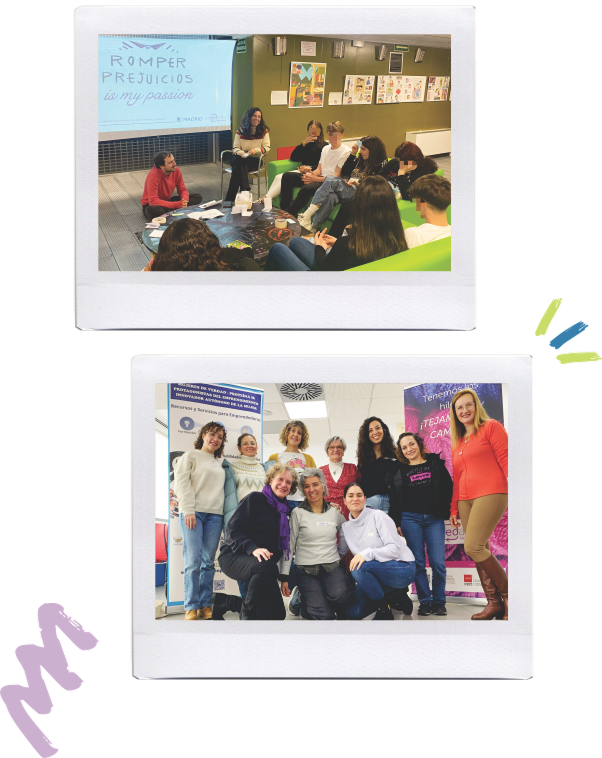
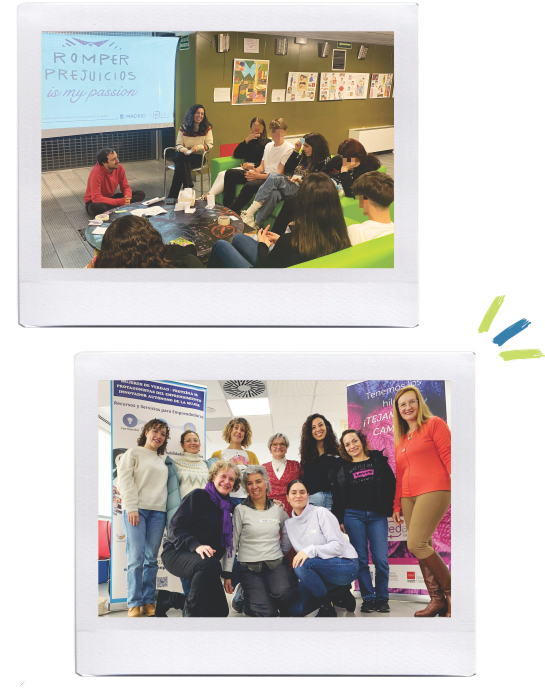
styles changes

diff --git a/client/src/app/sobreMi/page.tsx b/client/src/app/sobreMi/page.tsx
@@ -78,7 +78,7 @@ export default function AboutMe() {
         src={"/papel.webp"}
       /> */}
       <section className="flex w-full h-full flex-col items-center relative -mt-[5vh]">
-        <div className="max-lg:min-h-screen lg:h-[85svh] w-full max-lg:flex-col flex  lg:items-start items-center justify-center relative text-center gap-8 px-[5%] lg:px-[8.335%] pt-[20vh] md:pt-[15vh]">
+        <div className="min-h-[105vh] w-full max-lg:flex-col flex  lg:items-start items-center justify-center relative text-center gap-8 px-[5%] lg:px-[8.335%] pt-[20vh]">
           <Image
             src="/sobreMi/foco.png"
             alt="foco"
@@ -100,7 +100,7 @@ export default function AboutMe() {
             width={200}
             height={200}
           />
-          <div className="relative flex items-start gap-4">
+          <div className="relative flex items-center gap-4">
             <Image
               src="/sobreMi/imagenMica.png"
               alt="imagen micaela"
@@ -113,7 +113,7 @@ export default function AboutMe() {
               alt="flecha"
               width={200}
               height={200}
-              className="lg:pb-20 absolute z-20 max-lg:right-[10%] -bottom-8 max-lg:rotate-[140deg] lg:relative max-w-[15vw] sm:max-w-[10vw] md:max-w-[9vw] lg:mt-10"
+              className="pb-20 z-20 max-lg:hidden relative max-w-[9vw] self-start mt-16"
             />
           </div>
           <div className="flex flex-col items-center lg:items-start gap-4 relative md:w-3/4 lg:w-1/2 lg:mt-10">
@@ -121,7 +121,7 @@ export default function AboutMe() {
               <span>¡Hola!</span>{" "}
               <span className="self-end">Soy Micaela Gerbeno</span>
             </h1>
-            <p className="text-justify lg:text-left text-sm md:text-base xl:text-lg 3xl:text-xl leading-6  md:leading-8 xl:leading-[30px] 3xl:leading-[40px]">
+            <p className=" lg:text-left text-sm md:text-base xl:text-lg 3xl:text-xl leading-6  md:leading-8 xl:leading-[30px] 3xl:leading-[40px]">
               Soy consultora y formadora de{" "}
               <strong>Innovación Social y Sostenibilidad.</strong> <br />
               Me especializo en el{" "}
@@ -152,7 +152,7 @@ export default function AboutMe() {
         <Image
           src="/sobreMi/megafono.png"
           alt="megafono"
-          className="absolute left-0 top-0 md:-top-16 xl:top-1/3 max-w-[25%] md:max-w-[20%] lg:max-w-[15%] 2xl:max-w-fit"
+          className="absolute left-0 top-0 md:-top-16  max-w-[25%] md:max-w-[20%] lg:max-w-[15%] 2xl:max-w-fit"
           width={200}
           loading="lazy"
           height={200}
@@ -167,7 +167,7 @@ export default function AboutMe() {
                                               lg:justify-start hover:scale-[1.02] transition text-center`}
               style={{}}
             >
-              {i === 2 && (
+              {/* {i === 2 && (
                 <Image
                   src="/sobreMi/garabato3.png"
                   alt="garabato"
@@ -196,7 +196,7 @@ export default function AboutMe() {
                   width={100}
                   height={100}
                 />
-              )}
+              )} */}
               {i === 4 && (
                 <Image
                   src="/sobreMi/garabato2.png"
@@ -226,10 +226,10 @@ export default function AboutMe() {
           <h3 className="text-3xl xsm:text-4xl sm:text-5xl xl:text-6xl 3xl:text-7xl font-smileCity text-rosaOscuro">
             Trabajo en red
           </h3>
-          <p className="text-justify lg:text-left text-sm md:text-base xl:text-lg 3xl:text-xl leading-6  md:leading-8 xl:leading-[30px] 3xl:leading-[40px]">
+          <p className=" lg:text-left text-sm md:text-base xl:text-lg 3xl:text-xl leading-6  md:leading-8 xl:leading-[30px] 3xl:leading-[40px]">
             En esta búsqueda no estoy sola. El trabajo{" "}
-            <strong>colaborativo</strong> y los resyltados se potencian si
-            unimos talentos diversions hacia un propósito común.
+            <strong>colaborativo</strong> y los resultados se potencian si
+            unimos talentos diversos hacia un propósito común.
           </p>
         </div>
         <Image
@@ -240,7 +240,7 @@ export default function AboutMe() {
           width={1000}
           height={800}
         />
-        <div className="w-full flex relative max-md:flex-col items-start max-lg:px-[5%] md:max-lg:-mb-20 lg:absolute lg:left-[30%] lg:bottom-[35%] lg:max-w-[40%]">
+        <div className="w-full flex relative max-lg:flex-wrap max-md:flex-col items-start max-lg:px-[5%] lg:absolute lg:left-[30%] lg:bottom-[28%] lg:max-w-[40%]">
           <Image
             src="/sobreMi/collageFotos1.png"
             alt="collage de fotos"
@@ -249,7 +249,31 @@ export default function AboutMe() {
             width={1000}
             height={800}
           />
-          <div className="md:absolute md:max-lg:-bottom-20  flex flex-col items-start gap-2 max-md:px-[5%]">
+          <Image
+            src="/sobreMi/collageFotos2.png"
+            alt="collage de fotos"
+            className="lg:hidden md:w-1/2 pt-8"
+            loading="lazy"
+            width={1000}
+            height={800}
+          />
+          <Image
+            src="/sobreMi/collageFotos3.png"
+            alt="collage de fotos"
+            className="md:hidden md:w-2/3 ml-auto py-8"
+            loading="lazy"
+            width={1000}
+            height={800}
+          />
+          <Image
+            src="/sobreMi/collageFotos4.png"
+            alt="collage de fotos"
+            className="max-md:hidden lg:hidden mx-auto -mt-8"
+            loading="lazy"
+            width={1000}
+            height={800}
+          />
+          <div className="lg:absolute  flex flex-col items-start gap-2 ">
             <h4 className="subtitle-size font-normal font-text ">
               Formo parte de
             </h4>
@@ -262,42 +286,26 @@ export default function AboutMe() {
               height={200}
             />
           </div>
-          <Image
-            src="/sobreMi/collageFotos2.png"
-            alt="collage de fotos"
-            className="lg:hidden md:w-1/2 pt-8"
-            loading="lazy"
-            width={1000}
-            height={800}
-          />
         </div>
-        <Image
-          src="/sobreMi/collageFotos3.png"
-          alt="collage de fotos"
-          className="lg:hidden md:w-2/3 ml-auto py-8"
-          loading="lazy"
-          width={1000}
-          height={800}
-        />
       </section>
-      <section className="w-full flex flex-col items-center relative gap-6 pb-32 md:pb-40 lg:pb-10 px-[5%] lg:px-[8.335%]">
+      <section className="w-full flex flex-col items-center relative gap-6 pb-40 px-[5%] lg:px-[8.335%] lg:-mt-[10vh] max-lg:pt-8">
         <h4 className="text-3xl xsm:text-4xl sm:text-5xl xl:text-6xl 3xl:text-7xl font-smileCity text-azul">
           Testimonios
         </h4>
         <div className="flex justify-center items-center w-full">
-          <div className="flex w-fit max-w-full overflow-x-auto relative z-20 gap-4 p-4 ">
+          <div className="flex w-fit max-w-full overflow-x-auto relative z-20 gap-4 py-4 ">
             {testimonials.map((testimonial, i) => (
               <Card
                 key={i}
-                className="w-[300px] md:w-[400px] lg:w-[500px] xl:w-[600px] py-4 px-4 flex-shrink-0"
+                className="w-[90vw] md:w-[60vw] lg:w-[45vw] xl:w-[35vw] py-4 px-4 flex-shrink-0"
               >
                 <CardHeader>
-                  <h5 className="font-semibold font-title text-center">
+                  <h5 className="font-semibold font-title text-center subtitle-size">
                     {testimonial.title}
                   </h5>
                 </CardHeader>
                 <CardBody>
-                  <blockquote className="italic font-text text-justify">
+                  <blockquote className="italic font-text text-xs sm:text-sm md:text-base 2xl:text-lg">
                     {testimonial.text}
                   </blockquote>
                 </CardBody>

diff --git a/client/src/app/components/Home/Blog/Blog.tsx b/client/src/app/components/Home/Blog/Blog.tsx
@@ -1,7 +1,7 @@
 "use client";
 import Image from "next/image";
 import React, { useEffect } from "react";
-import { Pagination } from "swiper/modules";
+import { Mousewheel, Pagination } from "swiper/modules";
 import "swiper/css";
 import "swiper/css/pagination";
 import "./pagination.css";
@@ -34,10 +34,12 @@ const Blog = () => {
         className="flex flex-col gap-4 md:gap-8 xl:gap-10 xsm:self-end sm:self-stretch sm:items-start justify-center w-2/3
                           mt-36 mb-20 xsm:mt-36 s:mt-[35vw] sm:mt-44  md:mt-[18vw] 2xl:mt-[23vw] ml-6 sm:ml-0"
       >
-        <h5 className="title-size">
-          <span className="font-text">N</span>uestro blog
-        </h5>
-        {loading && <p className="paragraph-size"><Loader /></p>}
+        <h5 className="title-size">Blog</h5>
+        {loading && (
+          <p className="paragraph-size">
+            <Loader />
+          </p>
+        )}
         {dataPosts.posts.length > 0 && (
           <>
             <Swiper
@@ -46,7 +48,8 @@ const Blog = () => {
               }}
               autoHeight
               spaceBetween={20}
-              modules={[Pagination]}
+              mousewheel={{ forceToAxis: true }}
+              modules={[Pagination, Mousewheel]}
               className="w-[110%] sm:w-full mySwiper !ml-0 !z-0 !overflow-hidden"
               slidesPerView={"auto"}
             >

diff --git a/client/src/app/blog/page.tsx b/client/src/app/blog/page.tsx
@@ -1,14 +1,12 @@
-
 import "./blog.css";
 import { Metadata } from "next";
 import Posts from "./Posts";
 
 export const metadata: Metadata = {
-  title: "Nuestro Blog",
-  description: "Lee los posts de nuestro blog.",
-}
+  title: "Blog",
+  description: "Lee los posts del blog de Mimpronta.",
+};
 const Blog = () => {
-
   return (
     <main className="main py-24 gap-10 overflow-hidden">
       <Posts />

diff --git a/client/src/app/blog/Posts.tsx b/client/src/app/blog/Posts.tsx
@@ -26,7 +26,7 @@ const Posts = () => {
         <Image
           src={"/collages/megafono.png"}
           alt="Megafono"
-          className="w-1/3 -scale-x-100 md:w-auto absolute right-0 top-0 -rotate-[23deg]"
+          className="w-1/3 -scale-x-100 md:w-auto absolute right-0 top-0 -rotate-[23deg] lg:w-1/5"
           width={250}
           height={250}
         />
